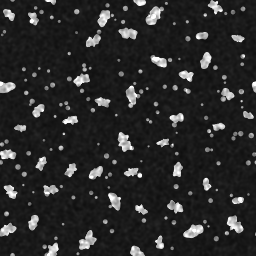
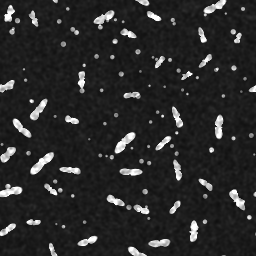
cabin777 py w3: raters A 6.0 / B 6.6 -> fabric redrawn as short cream strokes in +-25 deg herringbone columns (alv_02 / alv_17) without the ground blotches, elongated wing flecks, warm greige back + wings, flap B/R 1.4; shell top widened so the wings no longer show from behind; flatter literature po
Shared-file edits: SEATMAT pyFabric/pyWing/pyCover (src/09_seats.js), py synth functions in test/make_swatches.py + tex/tex_py_back.png, tex/tex_py_confetti.png.

Claude-Session: https://claude.ai/code/session_01BdVL6hZ8sese3DcwdvQ7TK

diff --git a/cabin777/src/09b_py.js b/cabin777/src/09b_py.js
@@ -30,7 +30,7 @@ function pySeat(B, x0, lod, opts = {}) {
   // PY w2: the top is a large-radius arch that ends level with the headrest (0.925 vs 0.91), not a square board 6 cm
   // above it (py_37302 / 37303, san_13, alv_02; raters A + B) [D]
   const ds = [[-0.04, 0.05, 0.525], [0.12, 0.06, 0.525], [0.34, 0.07, 0.525], [0.5, 0.084, 0.525], [0.68, 0.09, 0.525], [0.78, 0.085, 0.522],
-    [0.84, 0.08, 0.51], [0.88, 0.072, 0.48], [0.905, 0.06, 0.43], [0.925, 0.04, 0.33]];
+    [0.84, 0.08, 0.515], [0.88, 0.075, 0.50], [0.905, 0.066, 0.47], [0.925, 0.05, 0.41], [0.935, 0.03, 0.32]];   // w3: covers the wings from behind
   loftAt(B, ds.map(([y, d, w]) => SEC(y, w, d, zr(y) - d / 2 + 0.01, y > 0.85 ? d / 2 - 0.002 : 0.026)), BH, SEATMAT.pyShell, lod ? 2 : 3);
   // 6-way headrest with wings
   loftAt(B, [SEC(0.67, 0.42, 0.085, -0.008, 0.036), SEC(0.71, 0.39, 0.092, -0.012, 0.04), SEC(0.85, 0.39, 0.092, -0.012, 0.04), SEC(0.895, 0.37, 0.075, -0.006, 0.032), SEC(0.91, 0.33, 0.05, -0.002, 0.02)], BH, F, lod ? 3 : 4);
@@ -68,13 +68,14 @@ function pySeat(B, x0, lod, opts = {}) {
     for (const sx of [-0.12, 0.12]) B.add(gQuad(0.13, 0.03), on(0.505, 0.0115, sx), { c: '#e8e8e6', r: 0.6 });
   }
   {   // (row 25 backs too: seen from row 26)
-    // literature pocket low on the shell, just above the foot bar (alv_05, san_10, san_05): hard grey frame with a
-    // rounded lip standing ~5 cm proud, black mesh basket below it that narrows toward the bottom (trapezoid) [D]
-    B.add(gRBox(0.38, 0.035, 0.055, 0.012, 1), on(0.215, 0.028), SEATMAT.pyShell);
-    for (const s of [-1, 1]) B.add(gRBox(0.02, 0.17, 0.05, 0.008, 1), M4.mul(on(0.13, 0.024, s * 0.18), M4.trs(0, 0, 0, 0, 0, s * 9 * DEG)), SEATMAT.pyShell);
-    loftAt(B, [SEC(0.035, 0.29, 0.02, 0.012, 0.008), SEC(0.10, 0.33, 0.042, 0.022, 0.012), SEC(0.20, 0.35, 0.046, 0.024, 0.012)],
+    // literature pocket low on the shell, just above the footrest (alv_05, san_10, san_05): rigid grey upper tray lip
+    // standing ~4 cm proud, a flat grey panel below it with a black mesh window, slightly narrower at the bottom
+    // (w3: the w2 5 cm hood + deep basket was too bulky, rater B) [D]
+    B.add(gRBox(0.40, 0.03, 0.045, 0.012, 1), on(0.235, 0.022), SEATMAT.pyShell);
+    B.add(gRBox(0.36, 0.17, 0.016, 0.012, 1), on(0.135, 0.01), SEATMAT.pyShell);
+    loftAt(B, [SEC(0.07, 0.27, 0.012, 0.018, 0.005), SEC(0.14, 0.30, 0.018, 0.021, 0.006), SEC(0.20, 0.32, 0.018, 0.021, 0.006)],
       M4.mul(BH, M4.trs(0, 0, zr(0.13))), { c: '#16181b', r: 0.9, l: LAYER.grille }, 2);
-    B.add(gBox(0.34, 0.012, 0.008), on(0.20, 0.052), SEATMAT.black);                                // pocket mouth shadow
+    B.add(gBox(0.36, 0.008, 0.006), on(0.216, 0.036), SEATMAT.black);                               // pocket mouth shadow
   }
   if (!opts.noScreen) {
     // coat hook: horizontal silver bullet high on the shell side + small round grey button below it (san_24)
@@ -91,13 +92,13 @@ function pySeat(B, x0, lod, opts = {}) {
     B.add(gCyl(0.006, 0.006, 0.002, 10), M4.mul(hd, M4.trs(0, -0.0555, 0)), SEATMAT.black);
   }
   // PY w2: ONE fold-down footrest for the passenger behind (alv_05 / alv_06, san_10): two ribbed dark pads (~0.13 m) on a
-  // common axle with silver end caps + centre hub, hung from the seat pan on a central pair of silver struts [D]
+  // common axle with silver end caps + centre hub, hung from the seat pan on one silver arm just off centre (w3; alv_06) [D]
   const fy = 0.30, fz = 0.13;
   for (const s of [-1, 1]) {
     B.add(gCyl(0.021, 0.021, 0.13, 12), M4.trs(x0 + s * 0.08, fy, fz, 0, 0, Math.PI / 2), SEATMAT.black);
     B.add(gCyl(0.023, 0.023, 0.014, 12), M4.trs(x0 + s * 0.152, fy, fz, 0, 0, Math.PI / 2), SEATMAT.frame);
-    B.add(gRBox(0.012, 0.16, 0.022, 0.005, 1), M4.trs(x0 + s * 0.012, fy + 0.085, fz - 0.045, 32 * DEG), SEATMAT.frame);
   }
+  B.add(gRBox(0.018, 0.17, 0.024, 0.006, 1), M4.trs(x0 + 0.03, fy + 0.085, fz - 0.045, 0, 32 * DEG), SEATMAT.frame);   // one arm (alv_06)
   B.add(gCyl(0.024, 0.024, 0.03, 12), M4.trs(x0, fy, fz, 0, 0, Math.PI / 2), SEATMAT.frame);
   if (!lod) for (const s of [-1, 1]) for (let k = -2; k <= 2; k++)                                     // pad ribs
     B.add(gBox(0.12, 0.003, 0.004), M4.trs(x0 + s * 0.08, fy + 0.02 * Math.cos(k * 0.35), fz + 0.02 * Math.sin(k * 0.35)), SEATMAT.hole);
@@ -142,9 +143,10 @@ function pyUnit(n, lod = false, opts = {}) {
         for (const [y, h] of [[0.50, 0.10], [0.37, 0.08]]) {
           B.add(gBox(w - 0.03, 0.02, 0.004), M4.trs(xa, y + h / 2 - 0.012, -0.543), SEATMAT.hole);
           B.add(gRBox(w - 0.012, h * 0.74, 0.028, 0.007, 1), M4.trs(xa, y - h * 0.13, -0.554), SEATMAT.pyArm);
-          // royal-blue triangle: top-left corner on the upper cubby, bottom-right on the lower (alv_09) [V]
-          const up = y > 0.45, tx = xa + (up ? 1 : -1) * (w / 2 - 0.024), ty = up ? y + h * 0.24 - 0.018 : y - h * 0.5 + 0.018;
-          B.add(gCyl(0.017, 0.017, 0.002, 3, true, up ? Math.PI : 0), M4.trs(tx, ty, -0.5695, 0, Math.PI / 2), { c: '#2f47a8', r: 0.6 });
+          // royal-blue right-angled triangle: top-left corner on the upper cubby, top-right on the lower (alv_09) [V]
+          const up = y > 0.45;
+          const L = 0.028, sx = up ? 1 : -1;   // legs along the plate's top edge and outer side (top-left / top-right seen from the front)
+          B.add(gExtrude([[0, 0], [-sx * L, 0], [0, -L]], 0.002), M4.trs(xa + sx * (w / 2 - 0.009), y + h * 0.24 - 0.008, -0.5695), { c: '#2f47a8', r: 0.6 });
         }
         for (const s of [-1, 1]) {
           B.add(gRBox(0.037, 0.045, 0.004, 0.003, 1), M4.trs(xa + s * 0.021, 0.245, -0.542), SEATMAT.port);
@@ -161,9 +163,10 @@ function pyUnit(n, lod = false, opts = {}) {
       B.add(gRBox(0.05, 0.64, 0.62, 0.025, 2), M4.trs(xa + o * 0.01, 0.32, -0.27), SEATMAT.pyShell);
       // dark-grey arm cap running to the shroud front, where it rounds over and turns down ~6 cm (py_37301 right seat,
       // san_13); recessed darker panel on the shroud's outer face above the silver strip (py_37303)
-      loftAt(B, [SEC(0.62, w, 0.52, -0.30, 0.02), SEC(0.648, w + 0.006, 0.53, -0.30, 0.028), SEC(0.668, w - 0.004, 0.52, -0.30, 0.02)], M4.trs(xa, 0, 0), SEATMAT.pyArmPad, 2);
-      B.add(gCyl(0.024, 0.024, w, 12), M4.trs(xa, 0.644, -0.556, 0, 0, Math.PI / 2), SEATMAT.pyArmPad);
-      B.add(gRBox(w, 0.06, 0.03, 0.012, 1), M4.trs(xa, 0.61, -0.565), SEATMAT.pyArmPad);
+      const cap = { c: '#5c6068', r: 0.5, l: LAYER.leather };   // w3: mid slate-grey (py_37301 / 37303), lighter than the console lid
+      loftAt(B, [SEC(0.62, w, 0.52, -0.30, 0.02), SEC(0.648, w + 0.006, 0.53, -0.30, 0.028), SEC(0.668, w - 0.004, 0.52, -0.30, 0.02)], M4.trs(xa, 0, 0), cap, 2);
+      B.add(gCyl(0.024, 0.024, w, 12), M4.trs(xa, 0.644, -0.556, 0, 0, Math.PI / 2), cap);
+      B.add(gRBox(w, 0.06, 0.03, 0.012, 1), M4.trs(xa, 0.61, -0.565), cap);
       if (!lod) B.add(gRBox(0.006, 0.28, 0.44, 0.01, 1), M4.trs(xa + o * 0.033, 0.36, -0.25), { c: '#55575a', r: 0.5, l: LAYER.plastic });
       B.add(gBox(0.006, 0.012, 0.58), M4.trs(xa + o * 0.037, 0.13, -0.27, 0, 8 * DEG), SEATMAT.pyTrim);
     }
@@ -171,15 +174,20 @@ function pyUnit(n, lod = false, opts = {}) {
       // brushed-aluminium two-cell bottle bin on the console rear at knee height for the row behind (san_16 / 17 / 18)
       // PY w2: floor-standing silver bin, two square ~7 cm cups at the top (~0.44), white placard (alv_07, san_07) [D]
       B.add(gRBox(0.145, 0.44, 0.08, 0.012, 1), M4.trs(xa, 0.22, 0.045), SEATMAT.pyBin);
-      for (const s of [-1, 1]) B.add(gRBox(0.062, 0.004, 0.062, 0.01, 1), M4.trs(xa + s * 0.034, 0.441, 0.045), SEATMAT.hole);
+      for (const s of [-1, 1]) {        // recessed brushed cups with thin walls, grey floor (alv_07)
+        B.add(gRBox(0.056, 0.004, 0.058, 0.01, 1), M4.trs(xa + s * 0.033, 0.4405, 0.045), { c: '#8a8e92', r: 0.45, m: 0.6 });
+        B.add(gBox(0.05, 0.003, 0.052), M4.trs(xa + s * 0.033, 0.4425, 0.045), { c: '#3a3d40', r: 0.7 });
+      }
       B.add(gQuad(0.08, 0.03), M4.trs(xa, 0.36, 0.0855), { c: '#e6e6e2', r: 0.6 });
     }
   });
   const W = n * sp;
   const legX = n >= 3 ? [-(W / 2 - 0.28), W / 2 - 0.28] : [-0.28, 0.28];
   for (const lx of legX) {
-    B.add(gRBox(0.04, 0.3, 0.05, 0.01, 1), M4.trs(lx, 0.15, -0.08), SEATMAT.frame);
-    B.add(gRBox(0.04, 0.34, 0.05, 0.01, 1), M4.trs(lx, 0.16, -0.40, 0, -20 * DEG), SEATMAT.frame);
+    // w3: pale champagne leg frames with a diagonal rear strut, seen from the row behind (san_05, alv_03; rater A) [A]
+    const leg = { c: '#bdb298', r: 0.35, m: 0.7, l: LAYER.brushed };
+    B.add(gRBox(0.035, 0.44, 0.045, 0.01, 1), M4.trs(lx, 0.19, 0.0, 0, 35 * DEG), leg);
+    B.add(gRBox(0.04, 0.34, 0.05, 0.01, 1), M4.trs(lx, 0.16, -0.40, 0, -20 * DEG), leg);
     B.add(gBox(0.055, 0.025, 0.14), M4.trs(lx, 0.012, -0.08), SEATMAT.black);
     B.add(gBox(0.055, 0.025, 0.14), M4.trs(lx, 0.012, -0.46), SEATMAT.black);
   }

diff --git a/cabin777/src/09_seats.js b/cabin777/src/09_seats.js
@@ -54,9 +54,10 @@ const SEATMAT = {
   // PY w1: real cabins (ref/web/py san_03 / san_04: fabric / wall 107 / 189 = 0.57; ANA py_37301 / 37303 0.8) -> lighter
   // than the r3 render (0.45); wing = back tone (py_37301 B/R 1.26 vs 1.24), flap / back 0.56-0.65 (san_04, py_37302),
   // shells / wall 0.38-0.42 (san_03 71-82 / 189, py_37303) [D]
-  pyFabric: { c: photoBase('#95949c', 'py_back'), r: 0.9, l: LAYER.pyFleck },
-  pyCover: { c: '#4c536e', r: 0.45, l: LAYER.leather },   // w2: flap / back 0.31-0.37 -> ~0.5, B/R 1.45 (alv_17 slate-navy; ANA blue cast)   // photo flap #232740, R/B 0.55 (py_37305): less saturated
-  pyWing: { c: photoBase('#9c9ca4', 'py_confetti'), r: 0.9, l: LAYER.pyConfetti },
+  // w3: back + wing warm greige (real cabins san_04 back R/B 1.27 vs wall 1.10; alv_02 / alv_04 cream strokes) [D]
+  pyFabric: { c: photoBase('#9a9692', 'py_back'), r: 0.9, l: LAYER.pyFleck },
+  pyCover: { c: '#4b5168', r: 0.45, l: LAYER.leather },   // w2: flap / back 0.31-0.37 -> ~0.5; w3 B/R 1.4 (alv_17 slate-navy, ANA blue cast)   // photo flap #232740, R/B 0.55 (py_37305): less saturated
+  pyWing: { c: photoBase('#a09c98', 'py_confetti'), r: 0.9, l: LAYER.pyConfetti },
   pyShell: { c: '#7e8084', r: 0.42, l: LAYER.plastic },   // w2: rear shell / wall 0.28-0.34 rendered vs 0.4-0.6 in photos
   pyArm: { c: '#5c5e62', r: 0.45, l: LAYER.plastic },
   pyArmPad: { c: '#4a4c50', r: 0.5, l: LAYER.leather },   // dark stitched leatherette lids (san_06, alv_04)

diff --git a/cabin777/test/make_swatches.py b/cabin777/test/make_swatches.py
@@ -69,40 +69,32 @@ def _blur_wrap(a, s):
 
 
 def synth_py_back(ratio, seed=7):
-    """PY QA w1/w2: the 140 px photo crop upsampled to 256 renders as soft blobs up close, so the weave is redrawn crisply
-    and only the photo's mottling (low-pass of the crop) is kept for the cloud zones. Real cabin close-ups (ref/web/py
-    alv_17 / alv_04, san_02) show irregular horizontal cream streaks, 1-4 mm thick and 5-40 mm long with ragged ends,
-    loosely rowed at ~8.7 mm (py_37305 y-autocorrelation 7.5 px at 860 px/m), ~35-40 % light coverage on a slate
-    ground, lighter and denser in cloud zones, plus scattered cream chips; cream ~4-5x the ground in linear light [D].
-    w2: replaces the w1 brick grid of equal dashes (rater A: 'digital', 15 % coverage)"""
+    """PY QA w1-w3: the 140 px photo crop upsampled to 256 renders as soft blobs up close, so the weave is redrawn crisply
+    and only the photo's mottling (low-pass of the crop) is kept, as stroke density (cloud zones). w3: real close-ups
+    (ref/web/py alv_02 seat top + wings, alv_17) show short cream strokes, ~10-25 mm x 3-4.5 mm, leaning ~+-25 deg from
+    the vertical in alternating ~27 mm columns (herringbone); from seat distance (san_01, py_37302) they read as fine
+    undirected flecks. ~30 % light coverage, cream ~4x the ground in linear light. The w2 horizontal streak rows read as
+    a barcode (rater A) and the ground mottling as dark blotches (rater B) [D]"""
     rng = np.random.default_rng(seed)
-    mot = _blur_wrap(ratio.mean(2), 9)
+    mot = _blur_wrap(ratio.mean(2), 12)
     mot = (mot - mot.mean()) / (mot.std() + 1e-6)
     y = np.arange(S)[:, None]; x = np.arange(S)[None, :]
     lite = np.zeros((S, S))
-    ph = S / 19                                    # 0.163 m / 19 = 8.6 mm row pitch
-    for r in range(19):
-        xs = rng.uniform(0, 20)
-        while xs < S:
-            m = mot[int((r + 0.5) * ph) % S, int(xs) % S]
-            p_on = np.clip(0.8 + 0.25 * m, 0.3, 1.0)             # denser streaks in the light cloud zones
-            ln = rng.uniform(6, 45) if rng.random() < 0.7 else rng.uniform(3, 8)
-            if rng.random() < p_on:
-                yc = (r + 0.5) * ph + rng.normal(0, 1.1)
-                th = rng.uniform(1.6, 3.6)                          # streak half-thickness (px): 2-4.5 mm total
-                sl = rng.normal(0, 0.03)                            # slight slant
-                u = (x - xs) % S
-                along = np.clip(np.minimum(u, ln - u) / 2.0, 0, 1) * (u < ln)
-                dy = ((y - yc - sl * u + S / 2) % S) - S / 2
-                rag = 1 + 0.4 * np.interp(u, np.arange(0, S + 5, 5), rng.uniform(-1, 1, len(range(0, S + 5, 5))))   # ragged edges
-                across = np.clip((th * rag - np.abs(dy)) / 0.9, 0, 1)
-                lite = np.maximum(lite, along * across * np.clip(rng.normal(1.0, 0.18), 0.5, 1.3))
-            xs += ln + rng.uniform(1.0, 4.5)
-    for cy, cx in rng.uniform(0, S, (60, 2)):     # cream chips, mostly in the light zones
-        if mot[int(cy), int(cx)] < -0.3: continue
-        rr = np.hypot(((x - cx + S / 2) % S - S / 2) * 0.7, ((y - cy + S / 2) % S - S / 2) / 0.7)
-        lite = np.maximum(lite, np.clip((rng.uniform(2.0, 5.0) - rr) / 1.0, 0, 1))
-    out = (1 + 3.4 * lite) * np.exp(0.18 * mot)
+    cols = 6; cw = S / cols                        # 0.163 m / 6 = 27 mm columns (tileable)
+    for c, lane in [(c, l) for c in range(cols) for l in (-0.3, 0.0, 0.3)]:        # three staggered lanes per column
+        ang = np.radians(25 if c % 2 else -25) + rng.normal(0, 0.06, 400)
+        vy = rng.uniform(0, 12); k = 0
+        while vy < S:
+            ln = rng.uniform(12, 28); th = rng.uniform(2.4, 3.6)
+            cx = (c + 0.5 + lane) * cw + rng.normal(0, cw * 0.06); cy = vy + ln / 2
+            m = mot[int(cy) % S, int(cx) % S]
+            if rng.random() < np.clip(0.72 + 0.25 * m, 0.3, 1.0):
+                dx = (x - cx + S / 2) % S - S / 2; dy = (y - cy + S / 2) % S - S / 2
+                a = ang[k]; along = dx * np.sin(a) + dy * np.cos(a); across = dx * np.cos(a) - dy * np.sin(a)
+                v = np.clip((ln / 2 - np.abs(along)) / 2.0, 0, 1) * np.clip((th * (1 - 0.35 * (2 * along / ln) ** 2) - np.abs(across)) / 0.9, 0, 1)
+                lite = np.maximum(lite, v * np.clip(rng.normal(1.0, 0.15), 0.6, 1.25))
+            vy += ln * rng.uniform(0.75, 1.1); k += 1
+    out = (1 + 3.0 * lite) * np.exp(0.05 * mot)
     return np.repeat(out[:, :, None], 3, 2)
 
 
@@ -111,22 +103,23 @@ def synth_py_confetti(ratio, seed=11):
     ~22 flakes, median 27 px^2 (~4-5 mm), 6-8 % area above 150, ground p10 72 / flakes 200+ sRGB (~12x linear) [D].
     In the cabin views the photo-sized chips read as 2-3 cm blotches against real in-cabin photos (san_01, alv_04: fine
     speckle) -> smaller chips. w2: real wings (alv_04 / alv_17, san_01) carry dense cream speckle, 20-40 % light
-    coverage (rater A: 5 % in w1) -> 46 chips + 160 specks [D]"""
+    coverage (rater A: 5 % in w1) -> 40 elongated chips (~1.6-2.4:1, w3) + 90 specks [D]"""
     rng = np.random.default_rng(seed)
     out = np.ones((S, S))
     yy, xx = np.mgrid[0:S, 0:S]
     pts = []
-    while len(pts) < 46:                           # blue-noise placement (flakes never touch in the photo)
+    while len(pts) < 40:                           # blue-noise placement (flakes never touch in the photo)
         p = rng.uniform(0, S, 2)
         if all(min(abs(p[0] - q[0]), S - abs(p[0] - q[0])) ** 2 + min(abs(p[1] - q[1]), S - abs(p[1] - q[1])) ** 2 > 24 ** 2 for q in pts): pts.append(p)
     for cy, cx in pts:
         dy = (yy - cy + S / 2) % S - S / 2; dx = (xx - cx + S / 2) % S - S / 2
-        a = rng.uniform(0, np.pi); r0 = rng.uniform(4.5, 8.0)
+        a = rng.uniform(0, np.pi); r0 = rng.uniform(4.0, 6.5)
         th = np.arctan2(dy, dx); rr = np.hypot(dx, dy)
+        e = rng.uniform(1.6, 2.4); rr = np.hypot((dx * np.cos(a) + dy * np.sin(a)) / e, dx * np.sin(a) - dy * np.cos(a)) * 1.3; th = np.arctan2(dy, dx)
         # irregular torn-paper chip: random low harmonics, elongated along a random axis
         lob = 1 + 0.3 * np.cos(2 * (th - a)) + sum(rng.uniform(0, 0.14) * np.cos(k * th + rng.uniform(0, 6)) for k in (3, 4, 5, 7))
         out += 7 * np.clip((r0 * lob - rr) / 1.0, 0, 1)
-    for cy, cx in rng.uniform(0, S, (160, 2)):     # small specks between the chips + fine ground grain
+    for cy, cx in rng.uniform(0, S, (90, 2)):      # small specks between the chips + fine ground grain
         rr = np.hypot((yy - cy + S / 2) % S - S / 2, (xx - cx + S / 2) % S - S / 2)
         out += 5 * np.clip((rng.uniform(1.5, 3.2) - rr) / 1.0, 0, 1)
     out *= np.exp(0.12 * _blur_wrap(rng.normal(0, 1, (S, S)), 1.2) / 0.2)
